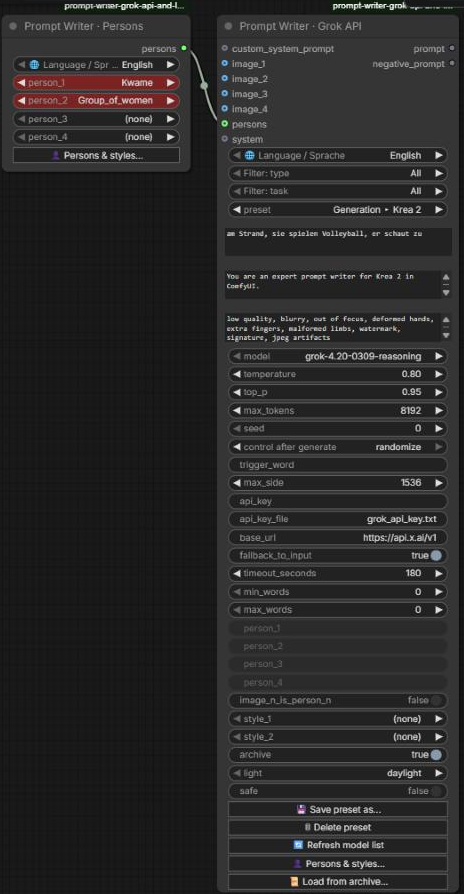
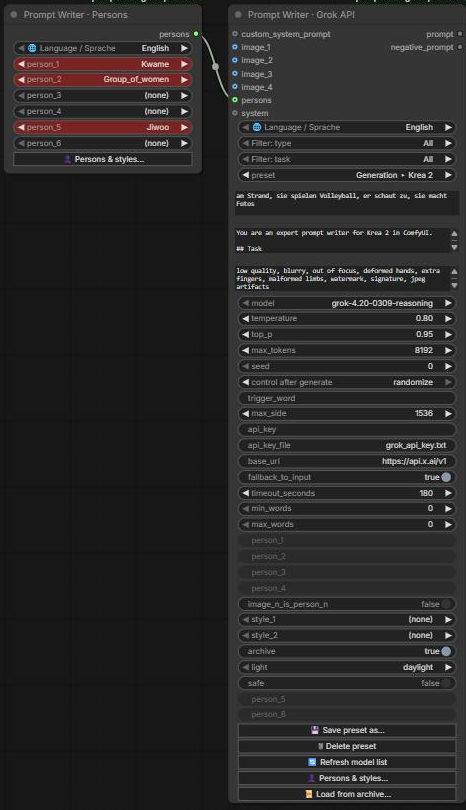
Screenshots for 1.6.0: System Prompt Library, editor, six persons

Changed region(s): [[0.0, 0.0, 1.0, 1.0]]

diff --git a/README.md b/README.md
@@ -20,9 +20,13 @@ Both nodes share everything else:
 
 ## Screenshots
 
-![Prompt Writer · System Prompt, Prompt Writer · Grok API with the Cartoon style and Show Prompt](docs/images/nodes_overview.png)
+![Prompt Writer · System Prompt Library, Prompt Writer · Grok API with Seedream 5.5 and Show Prompt](docs/images/nodes_overview.png)
 
-*Prompt Writer · Grok API turns a German idea into a Krea 2 prompt with the style block "Cartoon" and `light` on daylight. Prompt Writer · System Prompt adds a saved rule of its own ("Always mention the cat"). Show Prompt shows the real result: "a hand-drawn 2D cartoon illustration ... drawn and coloured by hand", with the cat, in clear daylight - described only in positive words.*
+*Prompt Writer · System Prompt Library, filtered to image presets, supplies the system prompt "Generation ▸ Seedream 5.5" in mode `replace`, so the writer's own `system_prompt` is greyed out and read-only. Prompt Writer · Grok API turns a German idea for a jazz festival poster into a Seedream 5.5 prompt, with the template person Amara in the new `person_5`. Show Prompt shows the real result: a concert poster with the title "LAKE JAZZ" at the top, "12. JULI" at the bottom and a closing palette sentence, as the Seedream 5.5 guide asks.*
+
+![The large system prompt editor with word, character and line count](docs/images/system_editor.png)
+
+*"📝 Open editor..." on the library node opens the system prompt in a large window with a word, character and line count. "✓ Apply" puts label and text into the node; "💾 Save as..." also saves it in your library under a name of your own.*
 
 ![The preset list filtered to video models and generation](docs/images/preset_filter.png)
 
@@ -30,7 +34,7 @@ Both nodes share everything else:
 
 ![Prompt Writer · Persons connected to the persons input of Prompt Writer · Grok API](docs/images/persons_node.png)
 
-*Prompt Writer · Persons chooses the template person Kwame and the group Group_of_women. While it is connected to the writer's `persons` input, the writer's own person fields are greyed out and locked.*
+*Prompt Writer · Persons chooses the template person Kwame, the group Group_of_women and the template person Jiwoo in `person_5`. While it is connected to the writer's `persons` input, the writer's own `person_1` … `person_6` are greyed out and locked.*
 
 ![The tooltip of person_1 with the selected person's name in the prompt, gender and description](docs/images/persons_hover.png)
 
